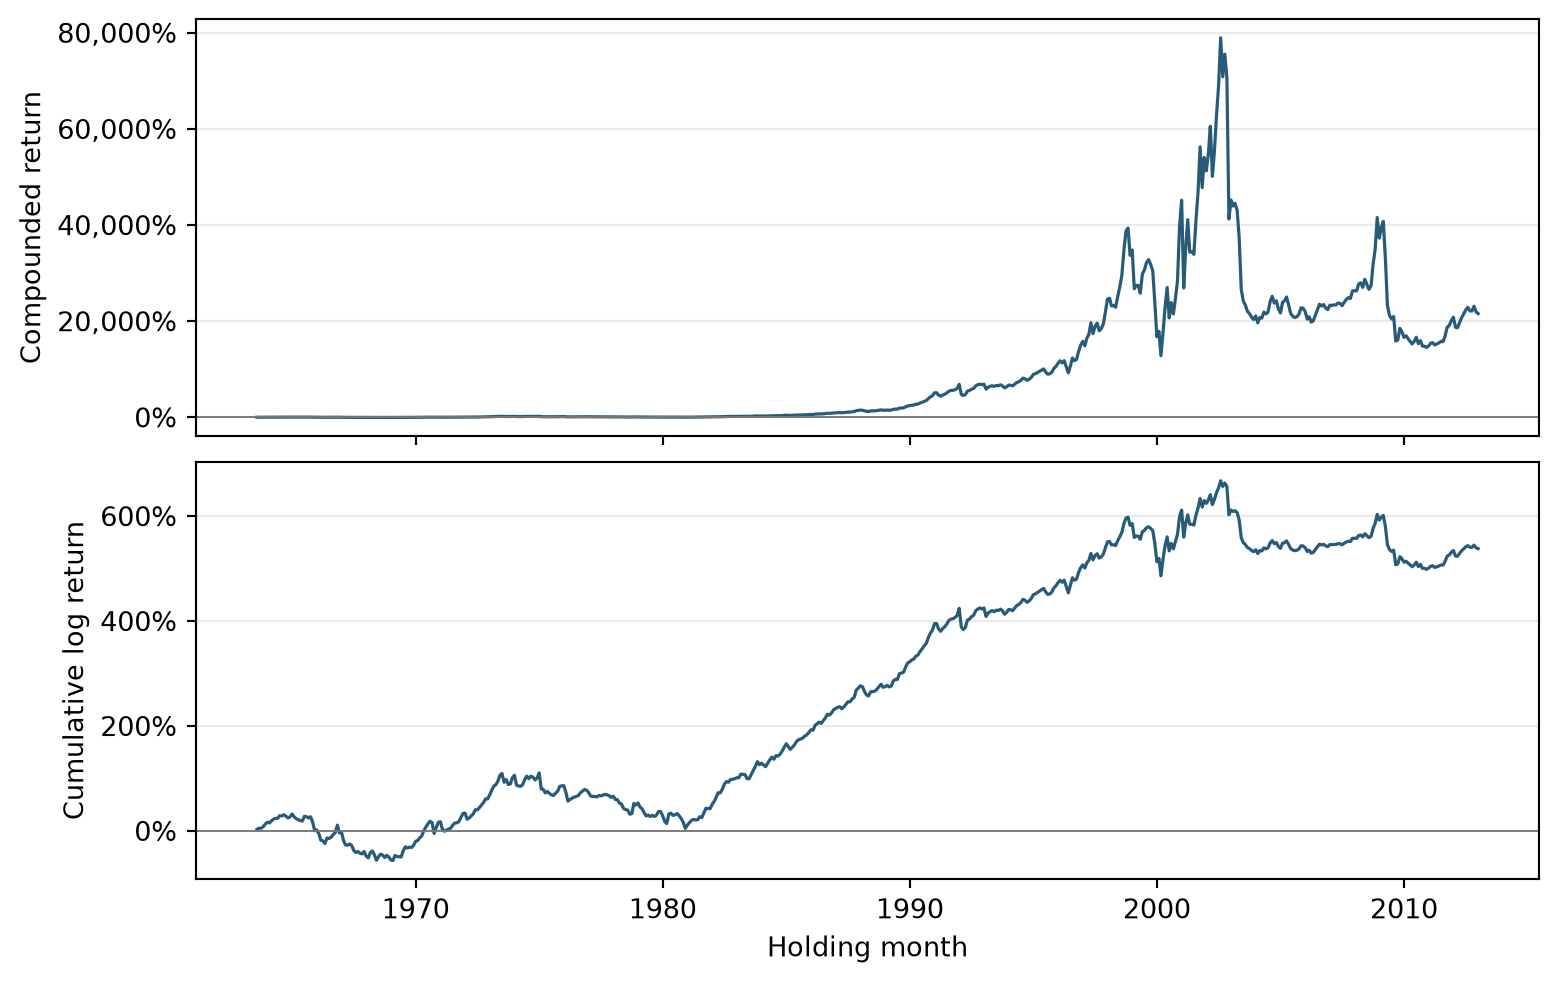
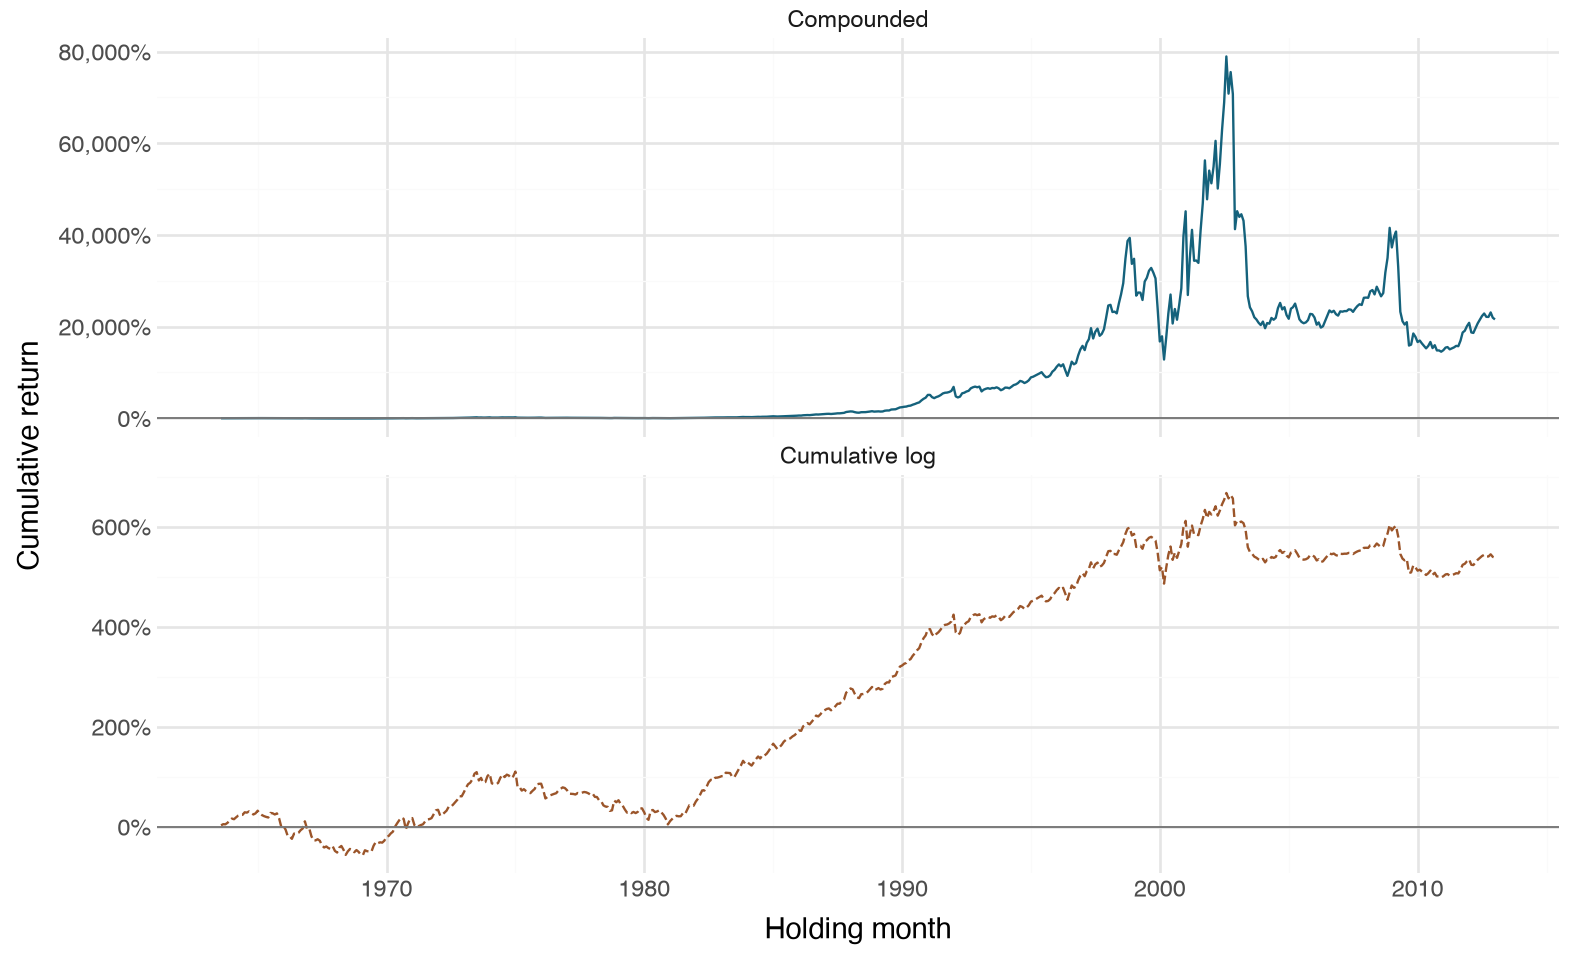
Built site for gh-pages

diff --git a/volatility-replication.html b/volatility-replication.html
@@ -401,7 +401,7 @@ r_{i,s}=\alpha_i+\beta_{i,M}\mathrm{MKT}_s+\beta_{i,S}\mathrm{SMB}_s
 \operatorname{IdioVol}_i=100\sqrt{m}\,\operatorname{RSE}_i.
 \tag{15.7}\]</span></span></p>
 <p>Formation months run from June 1963 through November 2012. Each window ends in the formation month. The daily windows of 1, 3, 6, and 12 months require 15, 50, 100, and 200 observations. The monthly windows of 1, 2, 3, and 5 years require 10, 20, 24, and 24 observations. For factor models, the minimum applies to matched observations. We use CRSP’s reported stock returns to estimate volatility and download the June 2014 vintage of the factors, including daily momentum, with <a href="eap_pl/reference/get_ff_factors.html"><code>get_ff_factors()</code></a>.</p>
-<div id="74274e4c" class="cell" data-execution_count="1">
+<div id="10b98dea" class="cell" data-execution_count="1">
 <div class="code-copy-outer-scaffold"><div class="sourceCode cell-code" id="cb1"><pre class="sourceCode python code-with-copy"><code class="sourceCode python"><span id="cb1-1"><a href="#cb1-1" aria-hidden="true" tabindex="-1"></a><span class="im">import</span> polars <span class="im">as</span> pl</span>
 <span id="cb1-2"><a href="#cb1-2" aria-hidden="true" tabindex="-1"></a></span>
 <span id="cb1-3"><a href="#cb1-3" aria-hidden="true" tabindex="-1"></a><span class="im">from</span> era_pl <span class="im">import</span> load_parquet, ptime</span>
@@ -438,20 +438,20 @@ r_{i,s}=\alpha_i+\beta_{i,M}\mathrm{MKT}_s+\beta_{i,S}\mathrm{SMB}_s
 <span id="cb1-34"><a href="#cb1-34" aria-hidden="true" tabindex="-1"></a><span class="cf">with</span> ptime():</span>
 <span id="cb1-35"><a href="#cb1-35" aria-hidden="true" tabindex="-1"></a>    daily_vol <span class="op">=</span> rolling_volatility(anchors, daily, daily_factors, daily_windows, <span class="dv">252</span>)</span></code></pre></div><button title="Copy to Clipboard" class="code-copy-button"><i class="bi"></i></button></div>
 <div class="cell-output cell-output-display cell-output-markdown">
-<p><strong>Wall time:</strong> 31.477 s</p>
+<p><strong>Wall time:</strong> 33.263 s</p>
 </div>
 </div>
-<div id="16b7be64" class="cell" data-execution_count="2">
+<div id="6a0ef26d" class="cell" data-execution_count="2">
 <div class="code-copy-outer-scaffold"><div class="sourceCode cell-code" id="cb2"><pre class="sourceCode python code-with-copy"><code class="sourceCode python"><span id="cb2-1"><a href="#cb2-1" aria-hidden="true" tabindex="-1"></a><span class="cf">with</span> ptime():</span>
 <span id="cb2-2"><a href="#cb2-2" aria-hidden="true" tabindex="-1"></a>    monthly_vol <span class="op">=</span> rolling_volatility(anchors, monthly, monthly_factors, monthly_windows, <span class="dv">12</span>)</span>
 <span id="cb2-3"><a href="#cb2-3" aria-hidden="true" tabindex="-1"></a></span>
 <span id="cb2-4"><a href="#cb2-4" aria-hidden="true" tabindex="-1"></a>volatility <span class="op">=</span> daily_vol.join(monthly_vol, on<span class="op">=</span>keys, validate<span class="op">=</span><span class="st">"1:1"</span>)</span></code></pre></div><button title="Copy to Clipboard" class="code-copy-button"><i class="bi"></i></button></div>
 <div class="cell-output cell-output-display cell-output-markdown">
-<p><strong>Wall time:</strong> 40.393 s</p>
+<p><strong>Wall time:</strong> 31.261 s</p>
 </div>
 </div>
 <p>We use the 12-month daily market beta, one-month Amihud illiquidity from <a href="liquidity-replication.html" class="quarto-xref"><span>Chapter 13</span></a>, and the five-year monthly co-skewness and idiosyncratic skewness measures from <a href="skewness-replication.html" class="quarto-xref"><span>Chapter 14</span></a>. We use log market capitalization (<code>log_cap</code>), the cumulative return over the preceding 11 months (<code>mom</code>), and the formation-month return (<code>rev</code>) as controls.</p>
-<div id="6a326bb3" class="cell" data-execution_count="3">
+<div id="023fee27" class="cell" data-execution_count="3">
 <div class="code-copy-outer-scaffold"><div class="sourceCode cell-code" id="cb3"><pre class="sourceCode python code-with-copy"><code class="sourceCode python"><span id="cb3-1"><a href="#cb3-1" aria-hidden="true" tabindex="-1"></a><span class="im">from</span> eap_pl <span class="im">import</span> build_book_to_market, build_momentum, build_sizes</span>
 <span id="cb3-2"><a href="#cb3-2" aria-hidden="true" tabindex="-1"></a><span class="im">from</span> eap_pl._data <span class="im">import</span> monthly_stock_returns</span>
 <span id="cb3-3"><a href="#cb3-3" aria-hidden="true" tabindex="-1"></a><span class="im">from</span> eap_pl._skewness <span class="im">import</span> rolling_skewness</span>
@@ -513,7 +513,7 @@ r_{i,s}=\alpha_i+\beta_{i,M}\mathrm{MKT}_s+\beta_{i,S}\mathrm{SMB}_s
 <span id="cb3-59"><a href="#cb3-59" aria-hidden="true" tabindex="-1"></a>    <span class="cf">for</span> family <span class="kw">in</span> families</span>
 <span id="cb3-60"><a href="#cb3-60" aria-hidden="true" tabindex="-1"></a>}</span></code></pre></div><button title="Copy to Clipboard" class="code-copy-button"><i class="bi"></i></button></div>
 <div class="cell-output cell-output-display cell-output-markdown">
-<p><strong>Wall time:</strong> 22.088 s</p>
+<p><strong>Wall time:</strong> 22.050 s</p>
 </div>
 </div>
 </section>
@@ -1383,7 +1383,7 @@ Table&nbsp;15.1: Cross-sectional volatility summary statistics (BEM Table 15.1)
 <section id="correlations" class="level2" data-number="15.4">
 <h2 data-number="15.4" class="anchored" data-anchor-id="correlations"><span class="header-section-number">15.4</span> Correlations</h2>
 <p>Within each formation month, we use stocks with both measures available and winsorize each variable at the 0.5th and 99.5th percentiles. Each table averages the resulting correlations across months. The square tables put Pearson coefficients below the diagonal and Spearman coefficients above it.</p>
-<div id="c94eac14" class="cell" data-execution_count="6">
+<div id="fbf2931a" class="cell" data-execution_count="6">
 <div class="code-copy-outer-scaffold"><div class="sourceCode cell-code" id="cb5"><pre class="sourceCode python code-with-copy"><code class="sourceCode python"><span id="cb5-1"><a href="#cb5-1" aria-hidden="true" tabindex="-1"></a><span class="im">from</span> itertools <span class="im">import</span> combinations</span>
 <span id="cb5-2"><a href="#cb5-2" aria-hidden="true" tabindex="-1"></a></span>
 <span id="cb5-3"><a href="#cb5-3" aria-hidden="true" tabindex="-1"></a><span class="im">from</span> eap_pl <span class="im">import</span> correlation_matrix</span>
@@ -2755,7 +2755,7 @@ Table&nbsp;15.6: Persistence of three-factor idiosyncratic volatility (BEM Table
 <h3 data-number="15.6.1" class="anchored" data-anchor-id="univariate-portfolio-analysis"><span class="header-section-number">15.6.1</span> Univariate Portfolio Analysis</h3>
 <p>We sort each formation month’s eligible stocks into deciles and calculate equal- and value-weighted next-month excess returns. Value weights use formation-month market capitalization. The spread buys the highest-volatility decile and sells the lowest. We compare returns with the delisting adjustments in <a href="crsp-replication.html#sec-bem-returns" class="quarto-xref"><span>Section 7.2</span></a> to returns from CRSP’s unadjusted monthly stock file.</p>
 <p>We run the spread regressions on July 1963 through December 2012 holding returns. The FFCPS model augments the four-factor model with the Pástor–Stambaugh traded liquidity factor bundled with the package. For FFCPS the sample starts in January 1968, when that factor first becomes available. Inference uses six-lag Newey–West standard errors <span class="citation" data-cites="neweywest1987">(<a href="references.html#ref-neweywest1987" role="doc-biblioref">Newey and West 1987</a>)</span>.</p>
-<div id="647e4167" class="cell" data-execution_count="12">
+<div id="0f541367" class="cell" data-execution_count="12">
 <div class="code-copy-outer-scaffold"><div class="sourceCode cell-code" id="cb11"><pre class="sourceCode python code-with-copy"><code class="sourceCode python"><span id="cb11-1"><a href="#cb11-1" aria-hidden="true" tabindex="-1"></a><span class="im">from</span> eap_pl <span class="im">import</span> format_fit, hac, load_pastor_stambaugh_2013</span>
 <span id="cb11-2"><a href="#cb11-2" aria-hidden="true" tabindex="-1"></a><span class="im">from</span> eap_pl._portfolios <span class="im">import</span> assign_portfolio, portfolio_months, spread</span>
 <span id="cb11-3"><a href="#cb11-3" aria-hidden="true" tabindex="-1"></a></span>
@@ -3726,7 +3726,7 @@ Table&nbsp;15.9: Mean formation-month characteristics of one-month idiosyncratic
 <section id="bivariate-portfolio-analysis" class="level3" data-number="15.6.2">
 <h3 data-number="15.6.2" class="anchored" data-anchor-id="bivariate-portfolio-analysis"><span class="header-section-number">15.6.2</span> Bivariate Portfolio Analysis</h3>
 <p>We sort on a control and one-month FF idiosyncratic volatility, using stocks with both variables available. In the dependent sort, we form control quintiles and then sort on volatility within each control quintile. In the independent sort, we form both sets of quintiles from the same monthly sample and intersect them. We report the volatility 5–1 spread within each control quintile and the 5–1 spread after averaging returns across control quintiles.</p>
-<div id="1e381eb6" class="cell" data-execution_count="16">
+<div id="60516edc" class="cell" data-execution_count="16">
 <div class="code-copy-outer-scaffold"><div class="sourceCode cell-code" id="cb15"><pre class="sourceCode python code-with-copy"><code class="sourceCode python"><span id="cb15-1"><a href="#cb15-1" aria-hidden="true" tabindex="-1"></a><span class="im">from</span> eap_pl <span class="im">import</span> bivariate_months</span>
 <span id="cb15-2"><a href="#cb15-2" aria-hidden="true" tabindex="-1"></a></span>
 <span id="cb15-3"><a href="#cb15-3" aria-hidden="true" tabindex="-1"></a></span>
@@ -5097,7 +5097,7 @@ Table&nbsp;15.14: One-month FF idiosyncratic volatility without controls, with e
 </figure>
 </div>
 </div>
-<div id="b7960186" class="cell" data-execution_count="22">
+<div id="89ed8c0d" class="cell" data-execution_count="22">
 <div class="code-copy-outer-scaffold"><div class="sourceCode cell-code" id="cb21"><pre class="sourceCode python code-with-copy"><code class="sourceCode python"><span id="cb21-1"><a href="#cb21-1" aria-hidden="true" tabindex="-1"></a><span class="kw">def</span> horizon_regressions(family):</span>
 <span id="cb21-2"><a href="#cb21-2" aria-hidden="true" tabindex="-1"></a>    table <span class="op">=</span> {<span class="st">"Term"</span>: [families[family], <span class="op">*</span>controls.values(), <span class="st">"Intercept"</span>, <span class="st">"Adjusted R²"</span>, <span class="st">"n"</span>]}</span>
 <span id="cb21-3"><a href="#cb21-3" aria-hidden="true" tabindex="-1"></a>    <span class="cf">for</span> term, window <span class="kw">in</span> labels[family].items():</span>
@@ -5464,32 +5464,26 @@ C_t = 100\left[\prod_{s\le t}(1+r_s)-1\right],
 \qquad L_t = 100\sum_{s\le t}\log(1+r_s).
 \tag{15.9}\]</span></span></p>
 <div id="cell-fig-bem15-low-high" class="cell" data-execution_count="25">
-<div class="code-copy-outer-scaffold"><div class="sourceCode cell-code" id="cb24"><pre class="sourceCode python code-with-copy"><code class="sourceCode python"><span id="cb24-1"><a href="#cb24-1" aria-hidden="true" tabindex="-1"></a><span class="im">import</span> matplotlib.pyplot <span class="im">as</span> plt</span>
-<span id="cb24-2"><a href="#cb24-2" aria-hidden="true" tabindex="-1"></a><span class="im">from</span> matplotlib.ticker <span class="im">import</span> FuncFormatter</span>
-<span id="cb24-3"><a href="#cb24-3" aria-hidden="true" tabindex="-1"></a></span>
-<span id="cb24-4"><a href="#cb24-4" aria-hidden="true" tabindex="-1"></a>low_high <span class="op">=</span> (</span>
-<span id="cb24-5"><a href="#cb24-5" aria-hidden="true" tabindex="-1"></a>    spread(adjusted_deciles[target], <span class="dv">1</span>, <span class="dv">10</span>, <span class="st">"portfolio"</span>, <span class="st">"VW"</span>)</span>
-<span id="cb24-6"><a href="#cb24-6" aria-hidden="true" tabindex="-1"></a>    .select(date<span class="op">=</span>pl.col(<span class="st">"month"</span>).dt.offset_by(<span class="st">"1mo"</span>).dt.month_end(), ret<span class="op">=</span>pl.col(<span class="st">"VW"</span>) <span class="op">/</span> <span class="dv">100</span>)</span>
-<span id="cb24-7"><a href="#cb24-7" aria-hidden="true" tabindex="-1"></a>    .sort(<span class="st">"date"</span>)</span>
-<span id="cb24-8"><a href="#cb24-8" aria-hidden="true" tabindex="-1"></a>    .with_columns(compounded<span class="op">=</span><span class="dv">100</span> <span class="op">*</span> ((<span class="dv">1</span> <span class="op">+</span> pl.col(<span class="st">"ret"</span>)).cum_prod() <span class="op">-</span> <span class="dv">1</span>),</span>
-<span id="cb24-9"><a href="#cb24-9" aria-hidden="true" tabindex="-1"></a>                  cumulative_log<span class="op">=</span><span class="dv">100</span> <span class="op">*</span> pl.col(<span class="st">"ret"</span>).log1p().cum_sum())</span>
-<span id="cb24-10"><a href="#cb24-10" aria-hidden="true" tabindex="-1"></a>)</span>
-<span id="cb24-11"><a href="#cb24-11" aria-hidden="true" tabindex="-1"></a></span>
-<span id="cb24-12"><a href="#cb24-12" aria-hidden="true" tabindex="-1"></a>fig, axes <span class="op">=</span> plt.subplots(<span class="dv">2</span>, <span class="dv">1</span>, sharex<span class="op">=</span><span class="va">True</span>, figsize<span class="op">=</span>(<span class="dv">8</span>, <span class="dv">5</span>), layout<span class="op">=</span><span class="st">"constrained"</span>)</span>
-<span id="cb24-13"><a href="#cb24-13" aria-hidden="true" tabindex="-1"></a><span class="cf">for</span> ax, column, label <span class="kw">in</span> <span class="bu">zip</span>(axes, (<span class="st">"compounded"</span>, <span class="st">"cumulative_log"</span>),</span>
-<span id="cb24-14"><a href="#cb24-14" aria-hidden="true" tabindex="-1"></a>                             (<span class="st">"Compounded return"</span>, <span class="st">"Cumulative log return"</span>)):</span>
-<span id="cb24-15"><a href="#cb24-15" aria-hidden="true" tabindex="-1"></a>    ax.plot(low_high[<span class="st">"date"</span>], low_high[column], color<span class="op">=</span><span class="st">"#285b7a"</span>, linewidth<span class="op">=</span><span class="fl">1.2</span>)</span>
-<span id="cb24-16"><a href="#cb24-16" aria-hidden="true" tabindex="-1"></a>    ax.set_ylabel(label)</span>
-<span id="cb24-17"><a href="#cb24-17" aria-hidden="true" tabindex="-1"></a>    ax.yaxis.set_major_formatter(FuncFormatter(<span class="kw">lambda</span> value, _: <span class="ss">f"</span><span class="sc">{</span>value<span class="sc">:,.0f}</span><span class="ss">%"</span>))</span>
-<span id="cb24-18"><a href="#cb24-18" aria-hidden="true" tabindex="-1"></a>    ax.axhline(<span class="dv">0</span>, color<span class="op">=</span><span class="st">"#777777"</span>, linewidth<span class="op">=</span><span class="fl">0.7</span>)</span>
-<span id="cb24-19"><a href="#cb24-19" aria-hidden="true" tabindex="-1"></a>    ax.grid(axis<span class="op">=</span><span class="st">"y"</span>, alpha<span class="op">=</span><span class="fl">0.25</span>)</span>
-<span id="cb24-20"><a href="#cb24-20" aria-hidden="true" tabindex="-1"></a>axes[<span class="op">-</span><span class="dv">1</span>].set_xlabel(<span class="st">"Holding month"</span>)</span>
-<span id="cb24-21"><a href="#cb24-21" aria-hidden="true" tabindex="-1"></a>plt.show()</span></code></pre></div><button title="Copy to Clipboard" class="code-copy-button"><i class="bi"></i></button></div>
-<div class="cell-output cell-output-display">
+<div class="code-copy-outer-scaffold"><div class="sourceCode cell-code" id="cb24"><pre class="sourceCode python code-with-copy"><code class="sourceCode python"><span id="cb24-1"><a href="#cb24-1" aria-hidden="true" tabindex="-1"></a><span class="im">from</span> eap_pl <span class="im">import</span> plot_cumulative_returns</span>
+<span id="cb24-2"><a href="#cb24-2" aria-hidden="true" tabindex="-1"></a></span>
+<span id="cb24-3"><a href="#cb24-3" aria-hidden="true" tabindex="-1"></a>low_high <span class="op">=</span> (</span>
+<span id="cb24-4"><a href="#cb24-4" aria-hidden="true" tabindex="-1"></a>    spread(adjusted_deciles[target], <span class="dv">1</span>, <span class="dv">10</span>, <span class="st">"portfolio"</span>, <span class="st">"VW"</span>)</span>
+<span id="cb24-5"><a href="#cb24-5" aria-hidden="true" tabindex="-1"></a>    .select(date<span class="op">=</span>pl.col(<span class="st">"month"</span>).dt.offset_by(<span class="st">"1mo"</span>).dt.month_end(), ret<span class="op">=</span>pl.col(<span class="st">"VW"</span>) <span class="op">/</span> <span class="dv">100</span>)</span>
+<span id="cb24-6"><a href="#cb24-6" aria-hidden="true" tabindex="-1"></a>    .sort(<span class="st">"date"</span>)</span>
+<span id="cb24-7"><a href="#cb24-7" aria-hidden="true" tabindex="-1"></a>    .with_columns(compounded<span class="op">=</span>(<span class="dv">1</span> <span class="op">+</span> pl.col(<span class="st">"ret"</span>)).cum_prod() <span class="op">-</span> <span class="dv">1</span>,</span>
+<span id="cb24-8"><a href="#cb24-8" aria-hidden="true" tabindex="-1"></a>                  cumulative_log<span class="op">=</span>pl.col(<span class="st">"ret"</span>).log1p().cum_sum())</span>
+<span id="cb24-9"><a href="#cb24-9" aria-hidden="true" tabindex="-1"></a>)</span>
+<span id="cb24-10"><a href="#cb24-10" aria-hidden="true" tabindex="-1"></a></span>
+<span id="cb24-11"><a href="#cb24-11" aria-hidden="true" tabindex="-1"></a>(</span>
+<span id="cb24-12"><a href="#cb24-12" aria-hidden="true" tabindex="-1"></a>    plot_cumulative_returns(low_high)</span>
+<span id="cb24-13"><a href="#cb24-13" aria-hidden="true" tabindex="-1"></a>    .labs(x<span class="op">=</span><span class="st">"Holding month"</span>)</span>
+<span id="cb24-14"><a href="#cb24-14" aria-hidden="true" tabindex="-1"></a>    .geom_hline(yintercept<span class="op">=</span><span class="dv">0</span>, color<span class="op">=</span><span class="st">"#777777"</span>, size<span class="op">=</span><span class="fl">0.4</span>)</span>
+<span id="cb24-15"><a href="#cb24-15" aria-hidden="true" tabindex="-1"></a>)</span></code></pre></div><button title="Copy to Clipboard" class="code-copy-button"><i class="bi"></i></button></div>
+<div class="cell-output cell-output-display" data-execution_count="25">
 <div id="fig-bem15-low-high" class="quarto-float quarto-figure quarto-figure-center anchored" alt="Two panels show the cumulative compounded and log returns from July 1963 to December 2012. Both rise over the long term and fall sharply in the early 2000s.">
 <figure class="quarto-float quarto-float-fig figure">
 <div aria-describedby="fig-bem15-low-high-caption-0ceaefa1-69ba-4598-a22c-09a6ac19f8ca">
-<img src="volatility-replication_files/figure-html/fig-bem15-low-high-output-1.png" alt="Two panels show the cumulative compounded and log returns from July 1963 to December 2012. Both rise over the long term and fall sharply in the early 2000s." width="779" height="491" class="figure-img">
+<img src="volatility-replication_files/figure-html/fig-bem15-low-high-output-1.png" alt="Two panels show the cumulative compounded and log returns from July 1963 to December 2012. Both rise over the long term and fall sharply in the early 2000s." width="787" height="480" class="figure-img">
 </div>
 <figcaption class="quarto-float-caption-bottom quarto-float-caption quarto-float-fig" id="fig-bem15-low-high-caption-0ceaefa1-69ba-4598-a22c-09a6ac19f8ca">
 Figure&nbsp;15.1: Cumulative returns of the value-weighted low-minus-high idiosyncratic volatility portfolio (BEM Figure 15.1)
